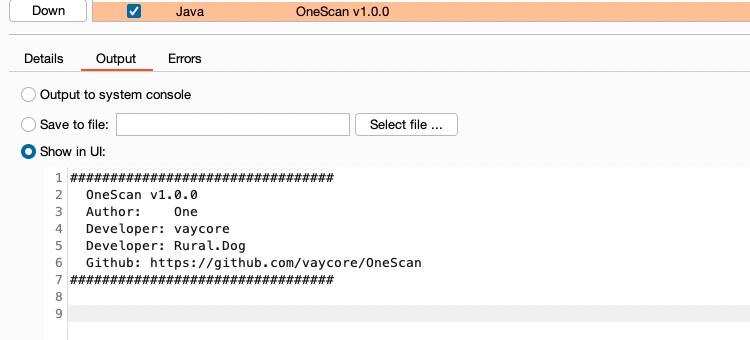
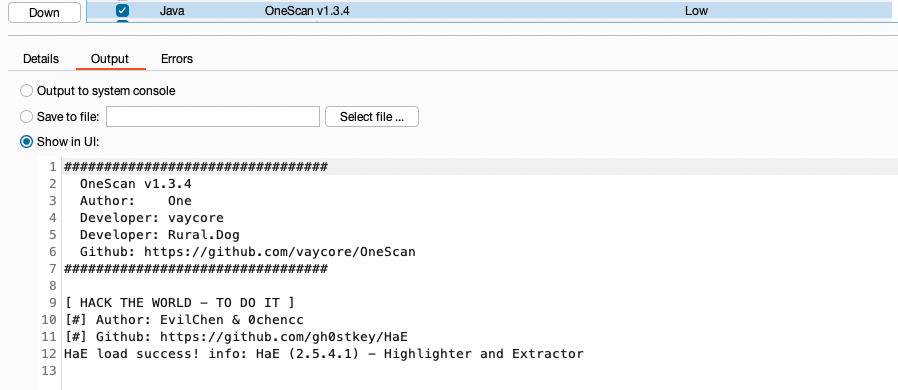
更新说明文档和截图

diff --git a/README.md b/README.md
@@ -43,7 +43,7 @@ BurpSuite 安装流程如下：
 Extender -> Extensions -> Add -> Select File -> Next
 ```
 
-流程结束后，打印如下信息表示插件安装完成（需要配置 [HaE](https://github.com/gh0stkey/HaE) 插件之后才会显示 **HaE** 插件的日志信息）：
+流程结束后，打印如下信息表示插件安装完成（需要在 Config -> Other -> HaE 中配置 [HaE](https://github.com/gh0stkey/HaE) 插件之后才会显示 **HaE** 插件的日志信息和联动高亮功能）：
 
 ![](imgs/install_success.png)
 
